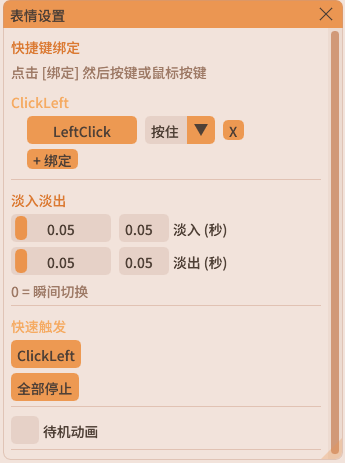
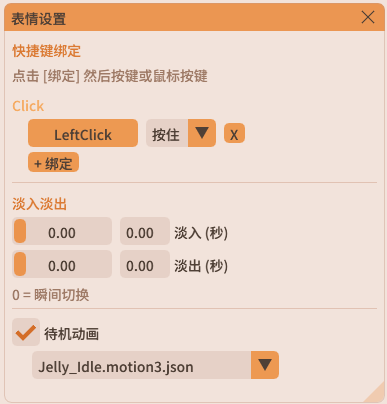
Update expression settings panel

diff --git a/index.html b/index.html
@@ -7,9 +7,9 @@
   <meta name="theme-color" content="#f59b52">
   <title data-i18n="meta.title">Cursor for Live2D · 模型师手册</title>
   <link rel="icon" href="assets/images/app-icon.ico">
-  <link rel="stylesheet" href="assets/styles.css?v=reference-project">
-  <script src="assets/i18n.js?v=reference-project" defer></script>
-  <script src="assets/app.js?v=reference-project" defer></script>
+  <link rel="stylesheet" href="assets/styles.css?v=expression-panel">
+  <script src="assets/i18n.js?v=expression-panel" defer></script>
+  <script src="assets/app.js?v=expression-panel" defer></script>
 </head>
 <body>
   <a class="skip-link" href="#main" data-i18n="skip.link">跳到正文</a>
@@ -166,7 +166,7 @@
           <div><strong data-i18n="expr.ref.title">如何制作并导出表情？</strong><p data-i18n="expr.ref.body">具体步骤请参考 Live2D Cubism 官方手册中的<a class="text-link" href="https://docs.live2d.com/zh-CHS/cubism-editor-manual/setting-and-exporting-facial-expressions/" target="_blank" rel="noreferrer">“创建和导出表情”说明 ↗</a>。</p></div>
         </div>
         <div class="expression-layout">
-          <figure class="phone-figure"><img src="assets/images/image5.png" alt="完整的表情设置面板" data-i18n-alt="expr.phone.alt" width="345" height="463" loading="lazy"><figcaption data-i18n="expr.phone.caption">表情设置面板</figcaption></figure>
+          <figure class="phone-figure"><img src="assets/images/image5.png" alt="完整的表情设置面板" data-i18n-alt="expr.phone.alt" width="387" height="404" loading="lazy"><figcaption data-i18n="expr.phone.caption">表情设置面板</figcaption></figure>
           <div class="expression-items">
             <article><span class="item-number">01</span><div><h3 data-i18n="expr.item1.title">绑定按键</h3><p data-i18n="expr.item1.body">点击绑定按钮，再按下希望使用的键盘或鼠标按键。点击“+ 绑定”可为同一表情增加多个触发键，例如同时绑定鼠标左键和右键。</p></div></article>
             <article><span class="item-number">02</span><div><h3 data-i18n="expr.item2.title">选择触发模式</h3><p data-i18n="expr.item2.body"><strong>按住：</strong>按下时触发，松开后恢复默认，适合鼠标点击。<br><strong>切换：</strong>按一次触发，再按一次取消，适合造型切换。</p><img src="assets/images/image16.png" alt="表情按住与切换模式下拉菜单" data-i18n-alt="expr.item2.imgAlt" width="251" height="127" loading="lazy"></div></article>
@@ -176,7 +176,6 @@
 
         <div class="mini-card-grid">
           <article><img src="assets/images/image21.png" alt="表情设置和快捷键设置按钮" data-i18n-alt="expr.mini1.imgAlt" width="380" height="81" loading="lazy"><h3 data-i18n="expr.mini1.title">重新打开面板</h3><p data-i18n="expr.mini1.body">表情面板关闭后，可从控制面板的“表情设置”再次打开。</p></article>
-          <article><img src="assets/images/image12.png" alt="快速触发表情列表" data-i18n-alt="expr.mini2.imgAlt" width="335" height="105" loading="lazy"><h3 data-i18n="expr.mini2.title">快速触发</h3><p data-i18n="expr.mini2.body">表情较多时，可在快速触发列表中集中查看并测试。</p></article>
           <article><img src="assets/images/image7.png" alt="待机动画选择区域" data-i18n-alt="expr.mini3.imgAlt" width="254" height="81" loading="lazy"><h3 data-i18n="expr.mini3.title">待机动画</h3><p data-i18n="expr.mini3.body">勾选并选择待机动画；模型文件夹内需包含 <code>motion3.json</code> 文件。</p></article>
         </div>
       </section>

diff --git a/assets/i18n.js b/assets/i18n.js
@@ -119,9 +119,6 @@
       'expr.mini1.imgAlt': '表情设置和快捷键设置按钮',
       'expr.mini1.title': '重新打开面板',
       'expr.mini1.body': '表情面板关闭后，可从控制面板的“表情设置”再次打开。',
-      'expr.mini2.imgAlt': '快速触发表情列表',
-      'expr.mini2.title': '快速触发',
-      'expr.mini2.body': '表情较多时，可在快速触发列表中集中查看并测试。',
       'expr.mini3.imgAlt': '待机动画选择区域',
       'expr.mini3.title': '待机动画',
       'expr.mini3.body': '勾选并选择待机动画；模型文件夹内需包含 <code>motion3.json</code> 文件。',
@@ -317,9 +314,6 @@
       'expr.mini1.imgAlt': 'Expression Settings and Shortcut Settings buttons',
       'expr.mini1.title': 'Reopen the panel',
       'expr.mini1.body': 'After the expression panel is closed, you can reopen it from “Expression Settings” in the control panel.',
-      'expr.mini2.imgAlt': 'Quick-trigger expression list',
-      'expr.mini2.title': 'Quick trigger',
-      'expr.mini2.body': 'When there are many expressions, use the quick-trigger list to view and test them all in one place.',
       'expr.mini3.imgAlt': 'Idle motion selection area',
       'expr.mini3.title': 'Idle motion',
       'expr.mini3.body': 'Check the box and choose an idle motion; the model folder must include a <code>motion3.json</code> file.',
@@ -515,9 +509,6 @@
       'expr.mini1.imgAlt': '「表情設定」と「ショートカット設定」ボタン',
       'expr.mini1.title': 'パネルを再度開く',
       'expr.mini1.body': '表情パネルを閉じた後も、コントロールパネルの「表情設定」から再度開けます。',
-      'expr.mini2.imgAlt': 'クイックトリガー表情リスト',
-      'expr.mini2.title': 'クイックトリガー',
-      'expr.mini2.body': '表情が多い場合は、クイックトリガーリストでまとめて確認・テストできます。',
       'expr.mini3.imgAlt': '待機モーション選択エリア',
       'expr.mini3.title': '待機モーション',
       'expr.mini3.body': 'チェックを入れて待機モーションを選択します。モデルフォルダには <code>motion3.json</code> ファイルが必要です。',

diff --git a/assets/styles.css b/assets/styles.css
@@ -182,7 +182,7 @@ figcaption { margin-top: 8px; color: var(--text-soft); font-size: 10px; line-hei
 .expression-items article { display: grid; grid-template-columns: 36px 1fr; gap: 18px; padding: 4px 0 32px; border-bottom: 1px solid var(--line); margin-bottom: 30px; }
 .item-number { display: grid; place-items: center; width: 34px; height: 34px; border-radius: 50%; background: var(--accent-pale); color: var(--accent-deep); font-size: 10px; font-weight: 800; }
 .expression-items img { max-height: 130px; width: auto; margin-top: 18px; border-radius: 10px; }
-.mini-card-grid { display: grid; grid-template-columns: repeat(3, 1fr); gap: 14px; margin-top: 46px; }
+.mini-card-grid { display: grid; grid-template-columns: repeat(2, 1fr); gap: 14px; margin-top: 46px; }
 .mini-card-grid article { padding: 20px; border: 1px solid var(--line); border-radius: var(--radius-md); background: var(--surface); }
 .mini-card-grid img { height: 84px; object-fit: contain; margin-bottom: 20px; }
 .mini-card-grid h3 { font-size: 15px; }
